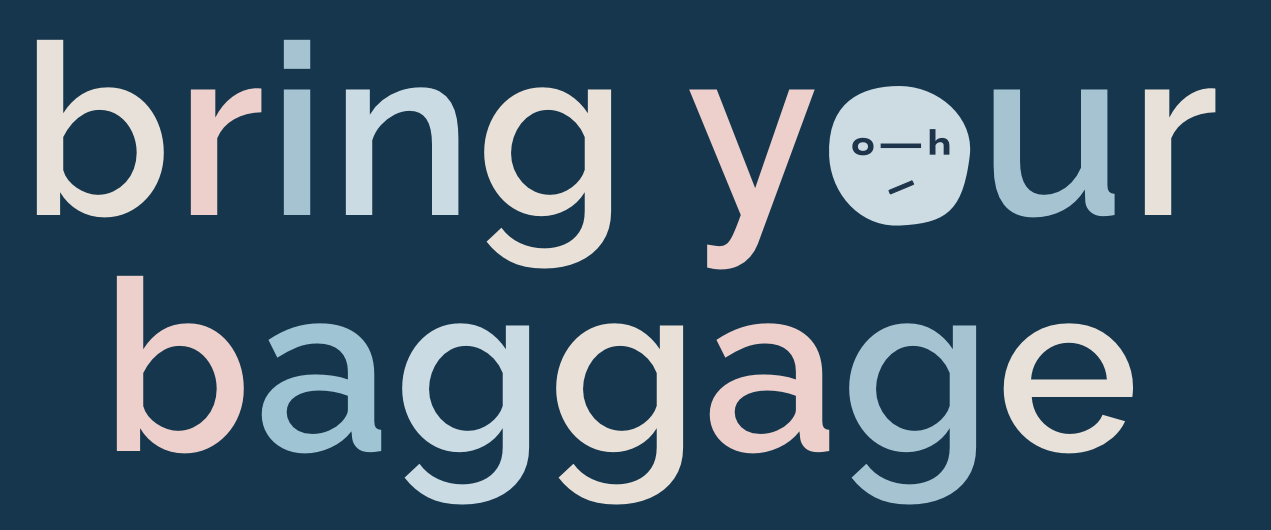
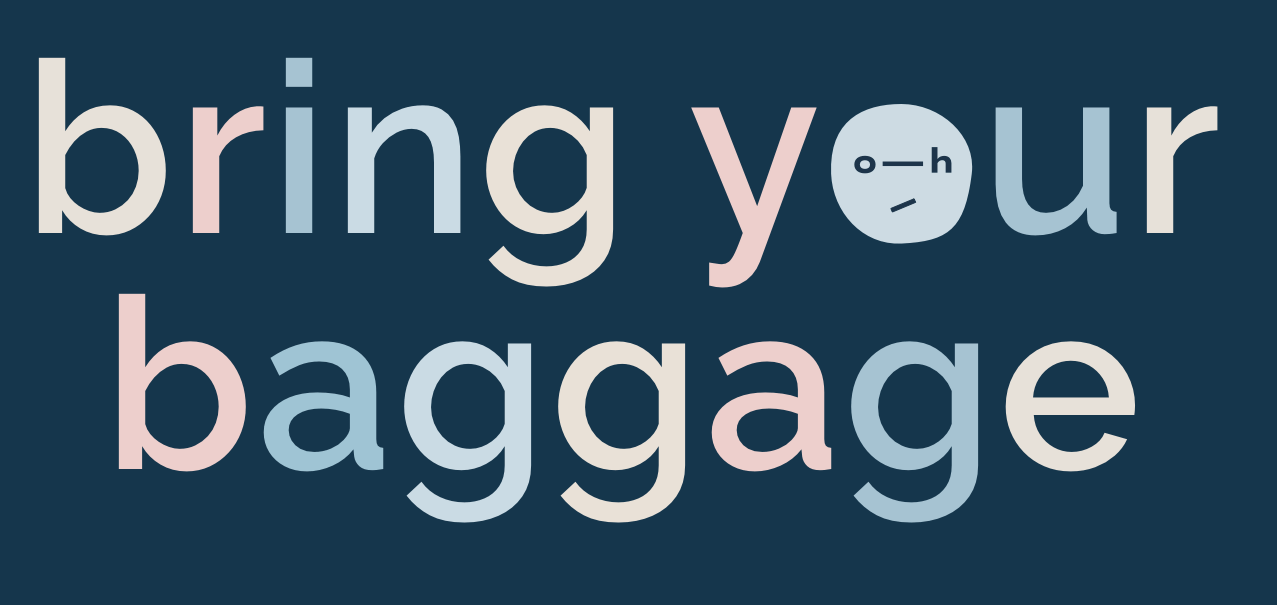
Add files via upload

diff --git a/index.html b/index.html
@@ -88,7 +88,11 @@
             aria-controls="offcanvasExample"
           >
             <span class="navbar-toggler-icon">
-              <img src="/assets/images/toggle-icon.png" alt="banner" />
+              <img
+                src="/assets/images/toggle-icon.jpg"
+                alt="banner"
+                class="img-fluid"
+              />
             </span>
           </button>
           <!-- <div
@@ -104,7 +108,11 @@
         <div class="container">
           <div class="col-md-12">
             <div class="banner__image">
-              <img src="/assets/images/banner_img.png" alt="banner" />
+              <img
+                src="/assets/images/banner_img.png"
+                alt="banner"
+                class="img-fluid"
+              />
             </div>
           </div>
         </div>

diff --git a/assets/css/style.css b/assets/css/style.css
@@ -248,6 +248,7 @@ main .container {
   height: auto;
   margin: 0 auto;
   padding-top: 7rem;
+  padding-bottom: 7rem;
 }
 
 .banner .banner__image img {
